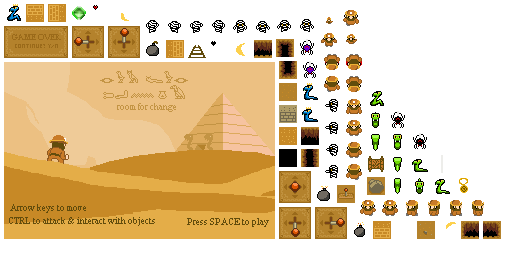
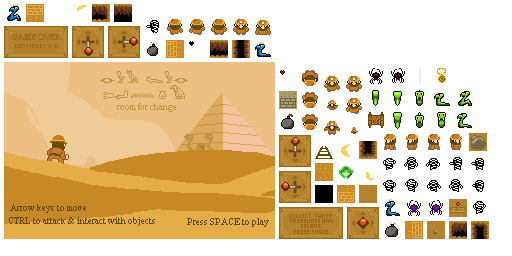
Added a help screen

Changed region(s): [[0.0938, 0.0, 1.0, 0.9375], [0.125, 0.1562, 0.1875, 0.2188]]

diff --git a/roomforchange/roomforchange/src/com/sturdyhelmetgames/roomforchange/screen/HelpScreen.java b/roomforchange/roomforchange/src/com/sturdyhelmetgames/roomforchange/screen/HelpScreen.java
@@ -4,10 +4,13 @@ import com.badlogic.gdx.Input.Keys;
 import com.sturdyhelmetgames.roomforchange.RoomForChangeGame;
 import com.sturdyhelmetgames.roomforchange.assets.Assets;
 
-public class MenuScreen extends Basic2DScreen {
+public class HelpScreen extends Basic2DScreen {
 
-	public MenuScreen(RoomForChangeGame game) {
+	private final GameScreen gameScreen;
+
+	public HelpScreen(RoomForChangeGame game, GameScreen gameScreen) {
 		super(game, 12, 8);
+		this.gameScreen = gameScreen;
 	}
 
 	@Override
@@ -17,18 +20,19 @@ public class MenuScreen extends Basic2DScreen {
 
 	@Override
 	public void renderScreen(float delta) {
+		gameScreen.renderScreen(delta);
 		spriteBatch.setProjectionMatrix(camera.combined);
 		spriteBatch.begin();
-		spriteBatch
-				.draw(Assets.getFullGameObject("pyramid"), -6f, -4f, 12f, 8f);
+
+		spriteBatch.draw(Assets.getFullGameObject("help"), -4f, -2f, 8f, 4f);
 		spriteBatch.end();
+
 	}
 
 	@Override
 	public boolean keyDown(int keycode) {
 		if (keycode == Keys.SPACE) {
-			game.setScreen(new HelpScreen(game, new GameScreen(game)));
-			return true;
+			game.setScreen(gameScreen);
 		}
 		return super.keyDown(keycode);
 	}

diff --git a/roomforchange/roomforchange/src/com/sturdyhelmetgames/roomforchange/screen/WinTheGameScreen.java b/roomforchange/roomforchange/src/com/sturdyhelmetgames/roomforchange/screen/WinTheGameScreen.java
@@ -1,0 +1,26 @@
+package com.sturdyhelmetgames.roomforchange.screen;
+
+import com.sturdyhelmetgames.roomforchange.RoomForChangeGame;
+
+public class WinTheGameScreen extends Basic2DScreen {
+
+	private final GameScreen gameScreen;
+
+	public WinTheGameScreen(RoomForChangeGame game, GameScreen gameScreen) {
+		super(game, 12, 8);
+		this.gameScreen = gameScreen;
+	}
+
+	@Override
+	protected void updateScreen(float fixedStep) {
+		// TODO Auto-generated method stub
+
+	}
+
+	@Override
+	public void renderScreen(float delta) {
+		// TODO Auto-generated method stub
+
+	}
+
+}

diff --git a/roomforchange/roomforchange/src/com/sturdyhelmetgames/roomforchange/screen/GameScreen.java b/roomforchange/roomforchange/src/com/sturdyhelmetgames/roomforchange/screen/GameScreen.java
@@ -293,7 +293,7 @@ public class GameScreen extends Basic2DScreen {
 	@Override
 	public void show() {
 		super.show();
-
+		Gdx.input.setInputProcessor(this);
 		Assets.getGameSound(Assets.SOUND_MUSIC).loop(0.5f);
 	}
 
